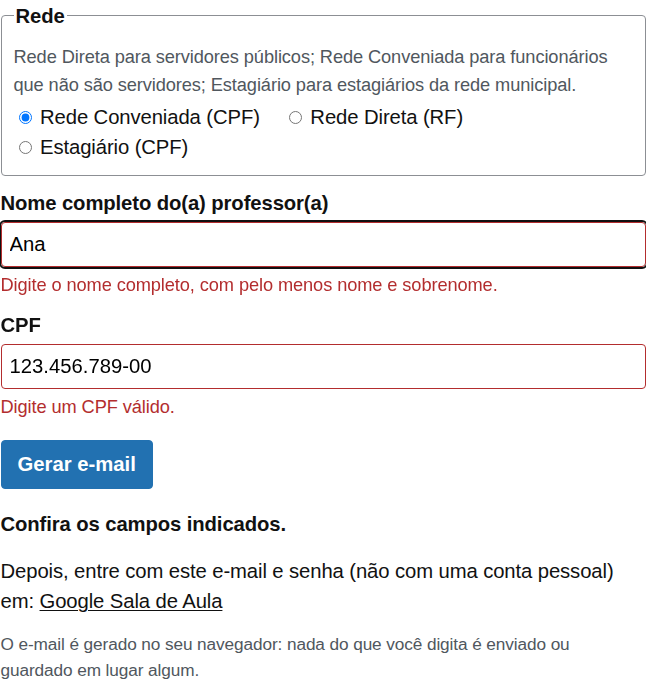
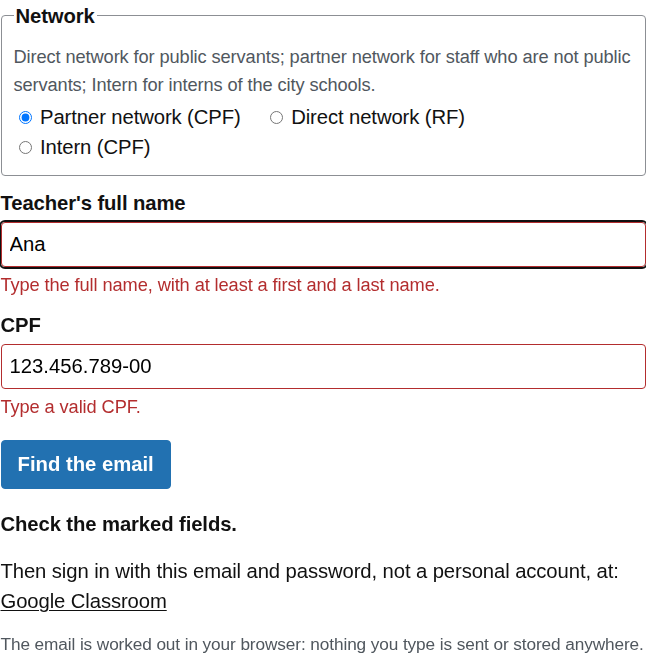
release: 1.2.0 — bump, finalize CHANGELOG, review docs (#47)
* release: 1.2.0 — bump, finalize CHANGELOG, review docs

Bumps the three version sites, finalizes the CHANGELOG and readme
(Changelog entry, Upgrade Notice), lists Dark Mode and the contrast
warning in README and readme.txt, re-captures the settings screenshots,
and fixes the icons docblock that still named the admin colour scheme.

Claude-Session: https://claude.ai/code/session_018srx5hc431EYmG4MHUr2KA

* release: 1.2.0 — screenshots re-captured in English

All ten screenshots re-captured with the site in English, same framing
and sizes as before.

Claude-Session: https://claude.ai/code/session_018srx5hc431EYmG4MHUr2KA

---------

Changed region(s): [[0.0, 0.0, 1.0, 1.0], [0.9907, 0.4856, 1.0, 0.607]]

diff --git a/institutional-email.php b/institutional-email.php
@@ -3,7 +3,7 @@
  * Plugin Name:       Institutional Email
  * Plugin URI:        https://github.com/rpgmem/institutional-email
  * Description:       Forms, placed with a shortcode, that work out the institutional email address of students and teachers of the São Paulo city schools (RME/SP), from their name and date of birth, RF or CPF, and of the state schools (SEDUC-SP), from the student's RA.
- * Version:           1.1.0
+ * Version:           1.2.0
  * Requires at least: 6.8
  * Requires PHP:      8.3
  * Author:            Alex Meusburger
@@ -24,7 +24,7 @@ if ( ! defined( 'ABSPATH' ) ) {
  * The plugin version, beside the header WordPress reads as text. The two are
  * bumped together; readme.txt's Stable tag is the third site.
  */
-define( 'INSTITUTIONAL_EMAIL_VERSION', '1.1.0' );
+define( 'INSTITUTIONAL_EMAIL_VERSION', '1.2.0' );
 
 /*
  * Inline autoloader for the InstitutionalEmail\ namespace, so the plugin

diff --git a/src/admin/icons.php b/src/admin/icons.php
@@ -10,8 +10,8 @@ declare(strict_types=1);
 namespace InstitutionalEmail\Admin;
 
 /**
- * Line icons drawn in the text colour, so they follow the admin colour
- * scheme. The drawings are Free Form Certificate's, so the two plugins look
+ * Line icons drawn in the text colour, so they follow the screen's palette,
+ * light or dark. The drawings are Free Form Certificate's, so the two plugins look
  * alike: 24×24, a stroke in `currentColor`, and only geometry, never a
  * colour, a style or a script of their own.
  */

diff --git a/README.md b/README.md
@@ -37,10 +37,10 @@ Example: RA 123456789, check digit X, born on 7 March 2012 → `000123456789xsp@
 
 In **Settings → Institutional Email** an administrator sets, for every form on the site:
 
-- **General:** the school network (city or state), the forms offered, which of the partner network, the direct network and interns the teachers' form offers, who may use them (everyone, or logged-in users only), and optional Google Analytics (off by default; only a GA4 measurement ID, never a pasted snippet).
+- **General:** the school network (city or state), the forms offered, which of the partner network, the direct network and interns the teachers' form offers, who may use them (everyone, or logged-in users only), optional Google Analytics (off by default; only a GA4 measurement ID, never a pasted snippet), and this screen's Dark Mode (off, on, or following the operating system).
 - **Address rules:** for the city schools, the domain, how long a middle name must be to give its initial, the RF check digit and the initial password; the state rules, which have nothing to set.
 - **Texts:** the platform the result links to (Google Classroom by default; empty hides the line), and any label, hint or message of the form.
-- **Design:** off by default; switched on, the form's width, the colours of the buttons, fields, hints, errors and result, the rounded corners and the font.
+- **Design:** off by default; switched on, the form's width, the colours of the buttons, fields, hints, errors and result, the rounded corners and the font. Colour pairs below WCAG's 4.5:1 are saved with a warning.
 - **Documentation:** what every option does, with examples.
 
 **In an iframe**, without WordPress:

diff --git a/CHANGELOG.md b/CHANGELOG.md
@@ -5,6 +5,10 @@ The format follows [Keep a Changelog](https://keepachangelog.com/en/1.1.0/).
 
 ## [Unreleased]
 
+## [1.2.0] (2026-10-12)
+
+The settings screen takes Free Form Certificate's look: its colours, icons and documentation navigation, and a dark mode; the Design tab warns about hard-to-read colours, and a cleared number keeps its default.
+
 ### Added
 
 - **The Design tab warns about colours that are hard to read** (#41). As in Email Signature Generator, a colour pair below WCAG's 4.5:1 (button text on the accent, the accent on white and on the result, notes and errors on white) is still saved, with a warning naming it and its ratio.
